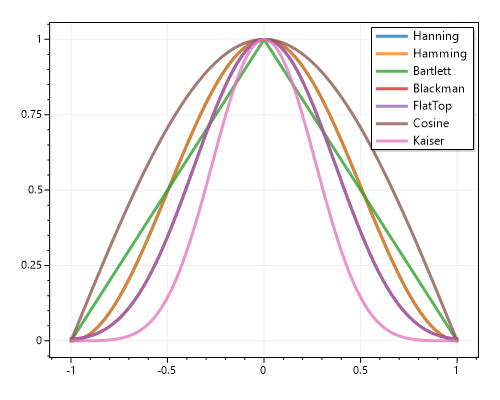
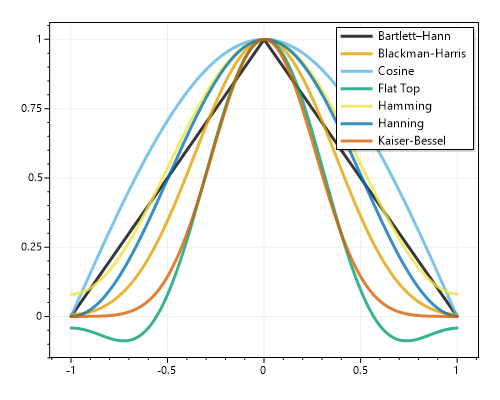
WindowBase -> Window

diff --git a/src/FftSharp.Tests/Window.cs b/src/FftSharp.Tests/Window.cs
@@ -52,7 +52,6 @@ namespace FftSharp.Tests
             Assert.AreEqual(names.Count(), names.Distinct().Count());
         }
 
-        [Ignore("TODO")]
         [Test]
         public void Test_WindowDescriptions_AreUnique()
         {
@@ -63,30 +62,32 @@ namespace FftSharp.Tests
         }
 
         [Test]
-        public void Test_Window_Functions()
+        public void Test_NormalizedWindows_SumIsOne()
+        {
+            foreach (IWindow window in FftSharp.Window.GetWindows())
+            {
+                double[] kernel = window.Create(123, true);
+                double sum = kernel.Sum();
+                Assert.AreEqual(1, sum, delta: 1e-10, $"{window} sum is {sum}");
+            }
+        }
+
+        [Test]
+        public void Test_Plot_AllWindowKernels()
         {
             var plt = new ScottPlot.Plot(500, 400);
+            plt.Palette = ScottPlot.Palette.ColorblindFriendly;
 
-            double[] xs = ScottPlot.DataGen.Range(-1, 1, .01, true);
-            plt.AddScatter(xs, FftSharp.Window.Hanning(xs.Length), label: "Hanning");
-            plt.AddScatter(xs, FftSharp.Window.Hamming(xs.Length), label: "Hamming");
-            plt.AddScatter(xs, FftSharp.Window.Bartlett(xs.Length), label: "Bartlett");
-            plt.AddScatter(xs, FftSharp.Window.Blackman(xs.Length), label: "Blackman");
-            //plt.AddScatter(xs, FftSharp.Window.BlackmanExact(xs.Length), label: "BlackmanExact");
-            //plt.AddScatter(xs, FftSharp.Window.BlackmanHarris(xs.Length), label: "BlackmanHarris");
-            plt.AddScatter(xs, FftSharp.Window.FlatTop(xs.Length), label: "FlatTop");
-            plt.AddScatter(xs, FftSharp.Window.Cosine(xs.Length), label: "Cosine");
-            plt.AddScatter(xs, FftSharp.Window.Kaiser(xs.Length, 15), label: "Kaiser");
-
-            // customize line styles post-hoc
-            foreach (var p in plt.GetPlottables())
+            foreach (IWindow window in FftSharp.Window.GetWindows())
             {
-                if (p is ScottPlot.Plottable.ScatterPlot sp)
-                {
-                    sp.MarkerSize = 0;
-                    sp.LineWidth = 3;
-                    sp.Color = System.Drawing.Color.FromArgb(200, sp.Color);
-                }
+                if (window.Name == "Rectangular")
+                    continue;
+                double[] xs = ScottPlot.DataGen.Range(-1, 1, .01, true);
+                double[] ys = window.Create(xs.Length);
+                var sp = plt.AddScatter(xs, ys, label: window.Name);
+                sp.MarkerSize = 0;
+                sp.LineWidth = 3;
+                sp.Color = System.Drawing.Color.FromArgb(200, sp.Color);
             }
 
             plt.Legend(enable: true, location: Alignment.UpperRight);
@@ -96,14 +97,8 @@ namespace FftSharp.Tests
         [Test]
         public void Test_Window_Reflection()
         {
-            foreach (var windowName in FftSharp.Window.GetWindowNames())
-            {
-                Console.WriteLine(windowName);
-                double[] windowed = FftSharp.Window.GetWindowByName(windowName, 5);
-                Console.WriteLine(String.Join(", ", windowed.Select(x => $"{x:N3}").ToArray()));
-                Console.WriteLine();
-                Assert.AreEqual(5, windowed.Length);
-            }
+            IWindow[] window = FftSharp.Window.GetWindows();
+            Assert.IsNotEmpty(window);
         }
 
         [Test]
@@ -126,7 +121,8 @@ namespace FftSharp.Tests
                 4.80567914e-03, 2.26624847e-03, 9.42588751e-04, 3.26000767e-04, 8.15094846e-05,
             };
 
-            double[] actual = FftSharp.Window.Kaiser(51, 14);
+            var window = new FftSharp.Windows.Kaiser(14);
+            double[] actual = window.Create(51);
 
             for (int i = 0; i < expected.Length; i++)
             {

diff --git a/src/FftSharp/Window.cs b/src/FftSharp/Window.cs
@@ -4,8 +4,49 @@ using System.Reflection;
 
 namespace FftSharp
 {
-    public static class Window
+    public abstract class Window : IWindow
     {
+        public abstract string Name { get; }
+
+        public abstract string Description { get; }
+
+        public override string ToString() => Name;
+
+        public abstract double[] Create(int size, bool normalize = false);
+
+        /// <summary>
+        /// Multiply the array by this window and return the result as a new array
+        /// </summary>
+        public double[] Apply(double[] input, bool normalize = false)
+        {
+            // TODO: save this window so it can be re-used if the next request is the same size
+            double[] window = Create(input.Length, normalize);
+            double[] output = new double[input.Length];
+            for (int i = 0; i < input.Length; i++)
+                output[i] = input[i] * window[i];
+            return output;
+        }
+
+        /// <summary>
+        /// Multiply the array by this window, modifying it in place
+        /// </summary>
+        public void ApplyInPlace(double[] input, bool normalize = false)
+        {
+            double[] window = Create(input.Length, normalize);
+            for (int i = 0; i < input.Length; i++)
+                input[i] = input[i] * window[i];
+        }
+
+        internal static void NormalizeInPlace(double[] values)
+        {
+            double sum = 0;
+            for (int i = 0; i < values.Length; i++)
+                sum += values[i];
+
+            for (int i = 0; i < values.Length; i++)
+                values[i] /= sum;
+        }
+
         /// <summary>
         /// Return an array containing all available windows.
         /// Note that all windows returned will use the default constructor, but some

diff --git a/src/FftSharp/IWindow.cs b/src/FftSharp/IWindow.cs
@@ -1,0 +1,33 @@
+namespace FftSharp
+{
+    public interface IWindow
+    {
+        /// <summary>
+        /// Generate this window as a new array with the given length.
+        /// Normalizing will scale the window so the sum of all points is 1.
+        /// </summary>
+        double[] Create(int size, bool normalize = false);
+
+        /// <summary>
+        /// Return a new array where this window was multiplied by the given signal.
+        /// Normalizing will scale the window so the sum of all points is 1 prior to multiplication.
+        /// </summary>
+        double[] Apply(double[] input, bool normalize = false);
+
+        /// <summary>
+        /// Modify the given signal by multiplying it by this window IN PLACE.
+        /// Normalizing will scale the window so the sum of all points is 1 prior to multiplication.
+        /// </summary>
+        void ApplyInPlace(double[] input, bool normalize = false);
+
+        /// <summary>
+        /// Single word name for this window
+        /// </summary>
+        string Name { get; }
+
+        /// <summary>
+        /// A brief description of what makes this window unique and what it is typically used for.
+        /// </summary>
+        string Description { get; }
+    }
+}

diff --git a/src/FftSharp.Demo/FormQuickstart.cs b/src/FftSharp.Demo/FormQuickstart.cs
@@ -31,19 +31,19 @@ namespace FftSharp.Demo
             double[] fft = FftSharp.Transform.FFTmagnitude(input);
 
             // plot the input signal
-            formsPlot1.plt.Clear();
-            formsPlot1.plt.PlotScatter(
+            formsPlot1.Plot.Clear();
+            formsPlot1.Plot.AddScatter(
                 xs: ScottPlot.DataGen.Consecutive(input.Length),
                 ys: input);
-            formsPlot1.plt.Title("Original Signal");
+            formsPlot1.Plot.Title("Original Signal");
             formsPlot1.Render();
 
             // plot the FFT
-            formsPlot2.plt.Clear();
-            formsPlot2.plt.PlotScatter(
+            formsPlot2.Plot.Clear();
+            formsPlot2.Plot.AddScatter(
                 xs: ScottPlot.DataGen.Consecutive(fft.Length),
                 ys: fft);
-            formsPlot2.plt.Title("Fast Fourier Transform (FFT)");
+            formsPlot2.Plot.Title("Fast Fourier Transform (FFT)");
             formsPlot2.Render();
         }
     }

diff --git a/src/FftSharp.Demo/FormMicrophone.cs b/src/FftSharp.Demo/FormMicrophone.cs
@@ -62,8 +62,8 @@ namespace FftSharp.Demo
             if (lastBuffer is null)
                 return;
 
-            double[] window = FftSharp.Window.Hanning(lastBuffer.Length);
-            double[] windowed = FftSharp.Window.Apply(window, lastBuffer);
+            var window = new Windows.Hanning();
+            double[] windowed = window.Apply(lastBuffer);
             double[] zeroPadded = FftSharp.Pad.ZeroPad(windowed);
             double[] fftPower = cbDecibel.Checked ?
                 FftSharp.Transform.FFTpower(zeroPadded) :

diff --git a/src/FftSharp.Tests/Quickstart.cs b/src/FftSharp.Tests/Quickstart.cs
@@ -26,8 +26,8 @@ namespace FftSharp.Tests
             // optionally apply a window to the data before calculating the FFT
             if (useWindow)
             {
-                double[] window = FftSharp.Window.Hanning(audio.Length);
-                FftSharp.Window.ApplyInPlace(window, audio);
+                var window = new FftSharp.Windows.Hanning();
+                window.ApplyInPlace(audio);
             }
 
             // You could get the FFT as a complex result

diff --git a/src/FftSharp/Windows/Rectangular.cs b/src/FftSharp/Windows/Rectangular.cs
@@ -1,6 +1,6 @@
 namespace FftSharp.Windows
 {
-    public class Rectangular : WindowBase, IWindow
+    public class Rectangular : Window, IWindow
     {
         public override string Name => "Rectangular";
         public override string Description =>

diff --git a/src/FftSharp/Windows/Bartlett.cs b/src/FftSharp/Windows/Bartlett.cs
@@ -2,7 +2,7 @@
 
 namespace FftSharp.Windows
 {
-    public class Bartlett : WindowBase, IWindow
+    public class Bartlett : Window, IWindow
     {
         public override string Name => "Bartlett–Hann";
         public override string Description =>

diff --git a/src/FftSharp/Windows/Hamming.cs b/src/FftSharp/Windows/Hamming.cs
@@ -2,7 +2,7 @@
 
 namespace FftSharp.Windows
 {
-    internal class Hamming : WindowBase, IWindow
+    internal class Hamming : Window, IWindow
     {
         public override string Name => "Hamming";
         public override string Description =>

diff --git a/src/FftSharp/Windows/Blackman.cs b/src/FftSharp/Windows/Blackman.cs
@@ -2,7 +2,7 @@
 
 namespace FftSharp.Windows
 {
-    public class Blackman : WindowBase, IWindow
+    public class Blackman : Window, IWindow
     {
         private readonly double A = 0.42659071;
         private readonly double B = 0.49656062;

diff --git a/src/FftSharp/Windows/Cosine.cs b/src/FftSharp/Windows/Cosine.cs
@@ -2,7 +2,7 @@
 
 namespace FftSharp.Windows
 {
-    internal class Cosine : WindowBase, IWindow
+    internal class Cosine : Window, IWindow
     {
         public override string Name => "Cosine";
         public override string Description =>

diff --git a/src/FftSharp/Windows/Hanning.cs b/src/FftSharp/Windows/Hanning.cs
@@ -2,7 +2,7 @@
 
 namespace FftSharp.Windows
 {
-    public class Hanning : WindowBase, IWindow
+    public class Hanning : Window, IWindow
     {
         public override string Name => "Hanning";
         public override string Description =>
